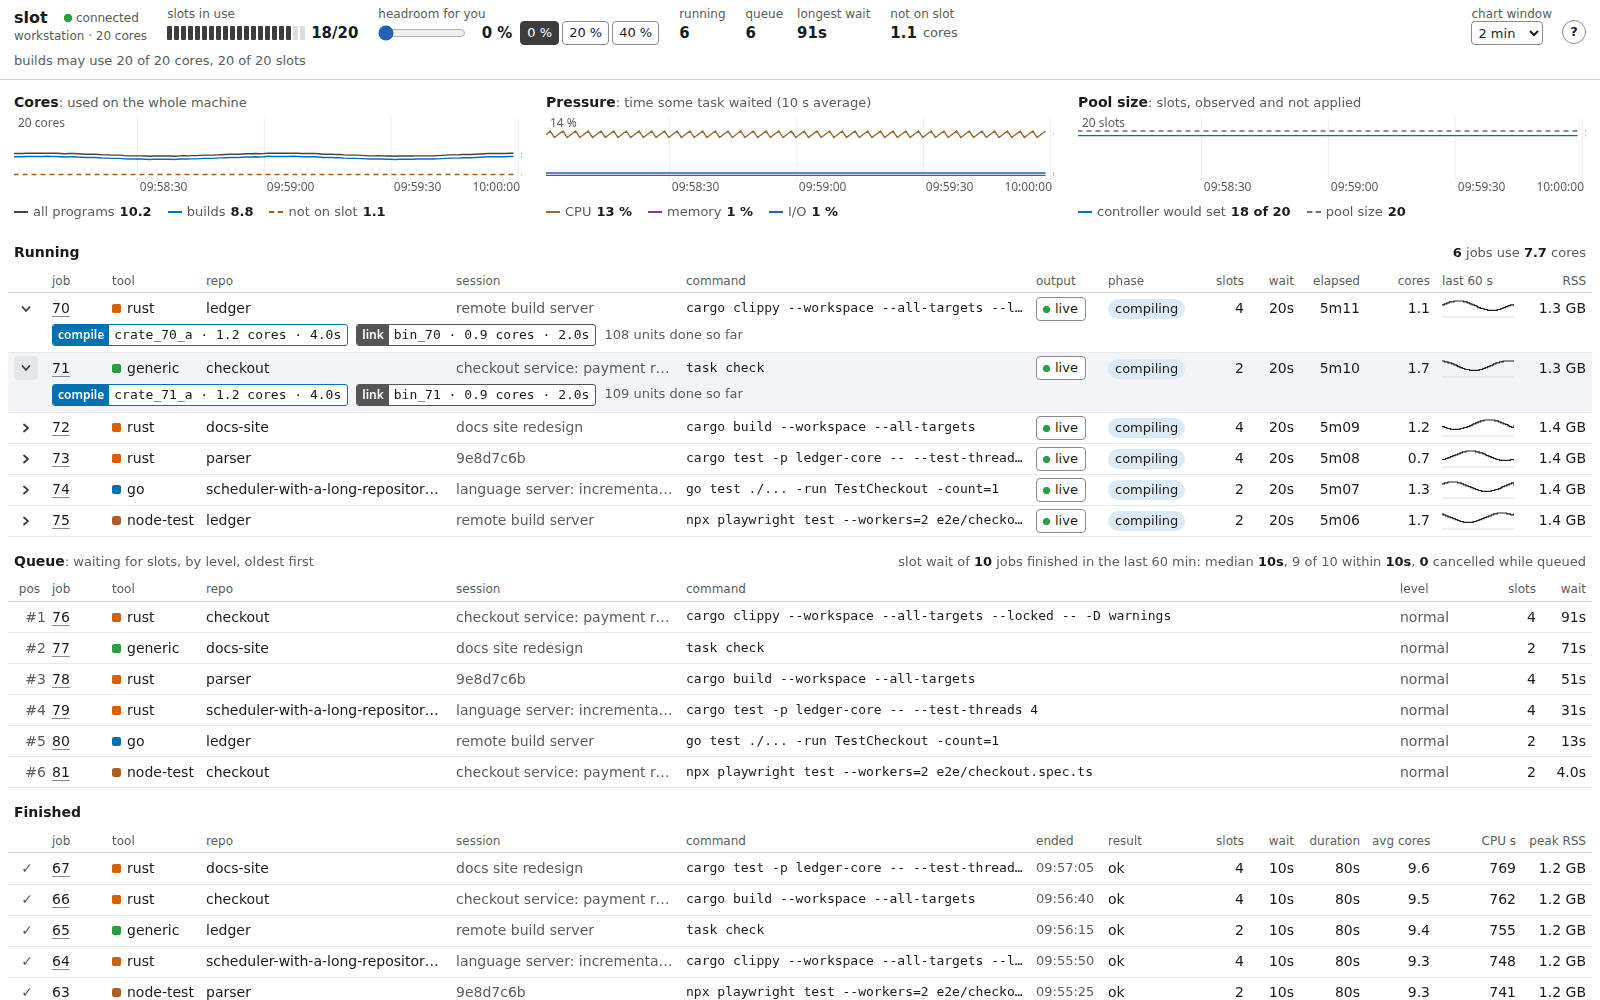
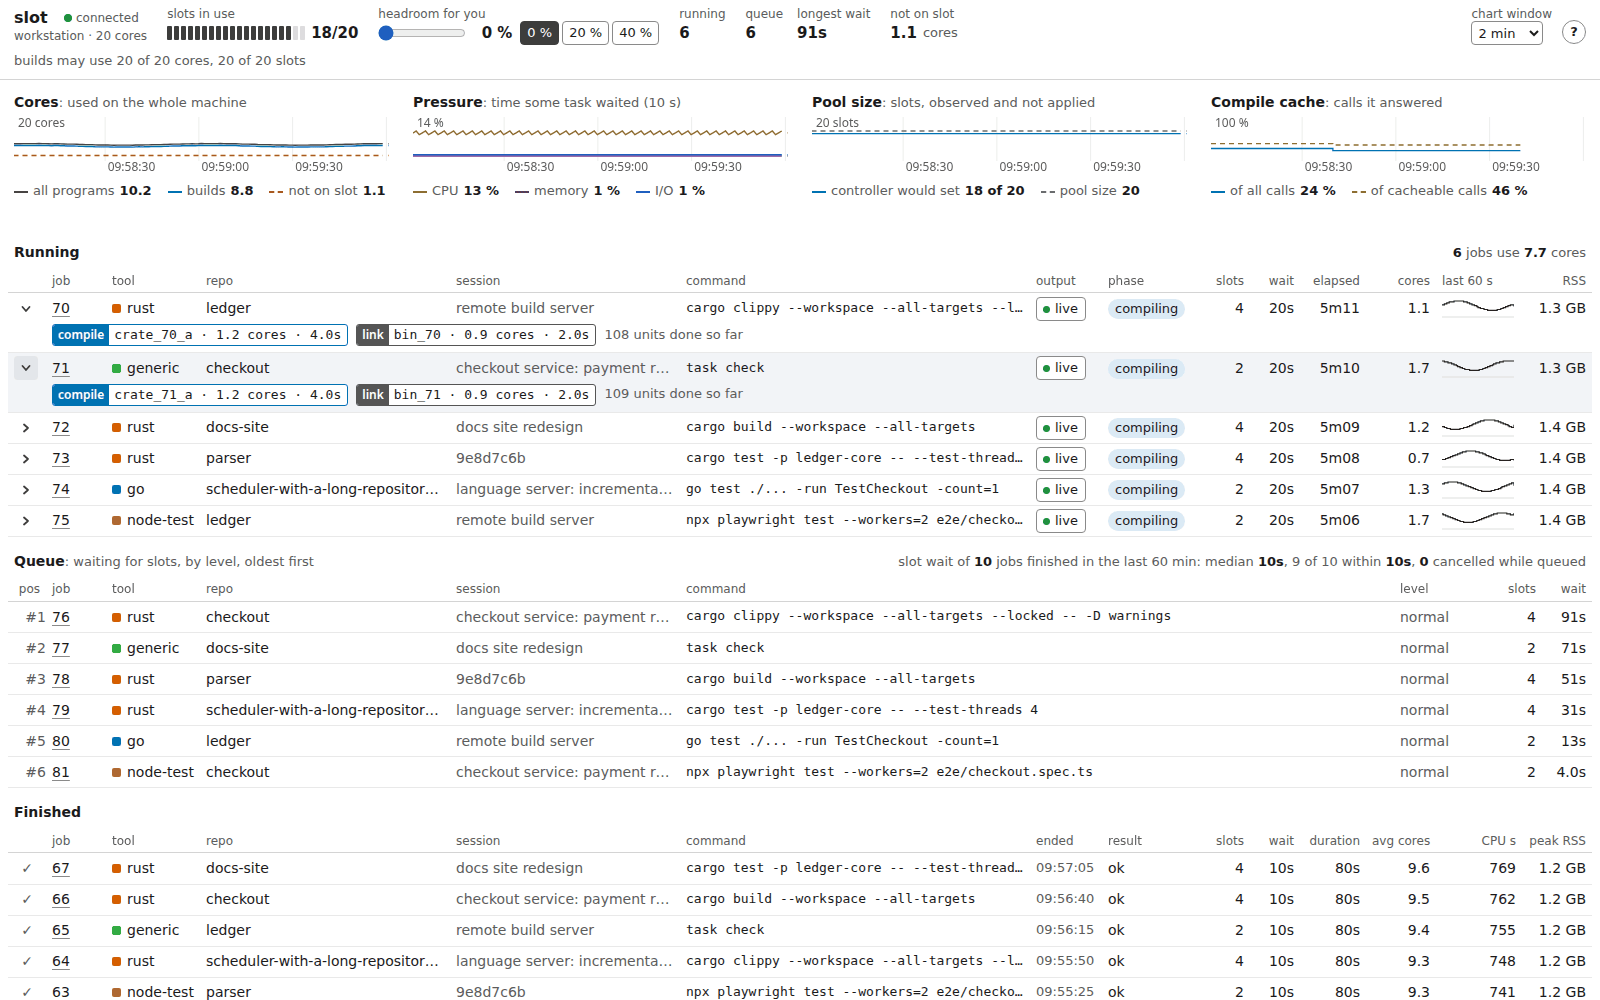
Release 0.21.0
The workspace version, `Cargo.lock`, the plugin manifests, the install
line of the getting-started page and the dated changelog section move to
0.21.0. The release holds:

- a cargo build waits without a slot while another job compiles in its
  target directory;
- the web view's fourth line chart, what the compile cache answered per
  minute, and `GET /api/cache-history`;
- `slot priority promote-after`, the delay after which a waiting job
  counts as high, changed while the daemon runs.

Docs in the same commit: `website/data/status.json` covers the changelog
to 0.21.0 (a new item for the target-directory wait, the web view and the
job priority items rewritten), and the three landing-page screenshots are
rendered again from the UX scenarios with the four charts.

`AGENTS.md`, open work: five items measured on a busy host of 20 CPUs.
The pool size changes only at a draining restart (u); script jobs hold
slots they do not use (v); the client prints nothing after "queued" (w);
rules that put the busiest repositories on `high` make every other job
wait for the promotion delay (x); the `unverified` label of the usage
table is not explained (y); and the default pool size of one slot per CPU
does not fit jobs that use 0.90 CPUs per slot (z).

diff --git a/AGENTS.md b/AGENTS.md
@@ -233,7 +233,7 @@ API. Writing tokens into the live jobserver FIFO by hand is a last resort for a 
 
 ## Open work
 
-Done: 0.1.0 to 0.20.0 (`CHANGELOG.md`): one jobserver pool with a queue ordered by job priority,
+Done: 0.1.0 to 0.21.0 (`CHANGELOG.md`): one jobserver pool with a queue ordered by job priority,
 admission by disk and memory, headroom and call mode, headroom of the machine, slots named by the
 job (`--tokens`), the web view with each project's share of the pool (`slot usage`), remote mode, the gate for builds in a sandbox, handover on reload, lost-token
 recovery, and eviction of local target directories (deletes by default, `evict.json` sets a dry run).
@@ -304,6 +304,30 @@ Open, one line each, with where the design lives. A session starts with (e).
   a script job (`task check`) records no target directory, so its inner cargo still blocks on
   the lock of a running build.
 - (t) The web view has no dark theme.
+- (u) The pool size (`slot serve --tokens`) changes only at a full restart, and a restart drains:
+  the old daemon runs every running and queued job to its end under the old size, while new
+  calls find no socket and run outside the pool, unrecorded. Measured with 69 jobs: about 4 ended
+  a minute. The pool size belongs in `limits.json` beside the headroom, changed by a command.
+- (v) Script jobs hold slots they do not use: over 3 hours, 256 jobs whose command was a script
+  held 60 % of the slot-hours at 0.74 CPUs per slot (plain `cargo` jobs: 1.47), and 63 of them
+  ran over 5 minutes. One sample had every slot of 17 taken, 59 jobs queued and the pool at
+  7.8 CPUs. The same cause as (i). 100 of the 256 named no repository, so no priority rule and
+  no usage row matched them.
+- (w) After `slot: job N queued` the client prints nothing until the job starts, so a shell that
+  waits 30 minutes looks hung. It should print the place in the queue from time to time.
+- (x) Priority rules that put the busiest repositories on `high` make every other job wait for
+  the promotion delay: in 40 minutes 55 of 62 `normal` jobs started only promoted, median wait
+  1,841 s, while `high` jobs waited 204 s. The delay is a setting now
+  (`slot priority promote-after`); the default is still 1800 s, and levels are strict, not shares.
+- (y) The usage table labels a row `unverified` without saying what it means: the job named no
+  checkout and its project was not read from a git remote, so the name is the directory's.
+- (z) The default pool size is the number of CPUs, on the assumption that a slot keeps one CPU
+  busy. Measured on a host of 20 CPUs: 0.90 CPUs per slot over 3 hours, a quarter of the
+  slot-hours in jobs under 0.25 CPUs per slot, and the compilers run in the compile cache server,
+  outside the job. With 17 running slots 15.2 CPUs were busy and 59 jobs queued; with 50 running
+  slots (`--tokens 59`, headroom 15 %, the same CPU quota) 20.0 were busy and the longest wait
+  fell from 31 minutes to under 5. Admission should follow the CPU the jobs use, not a count
+  equal to the CPUs.
 
 ## Never
 

diff --git a/website/docs/getting-started.md b/website/docs/getting-started.md
@@ -19,7 +19,7 @@ Each [release](https://github.com/beyond10x/slot/releases) carries one archive p
 includes the web UI.
 
 ```console
-version=0.20.0
+version=0.21.0
 target=x86_64-unknown-linux-gnu
 base=https://github.com/beyond10x/slot/releases/download/$version
 curl -LO "$base/slot-$version-$target.tar.gz"

diff --git a/CHANGELOG.md b/CHANGELOG.md
@@ -1,6 +1,6 @@
 # Changelog
 
-## Unreleased
+## 0.21.0 — 2026-11-22
 
 - The delay after which a waiting `normal` or `low` job counts as `high` changes while the daemon
   runs: `slot priority promote-after <seconds>` (0 never raises a job, `default` returns to
